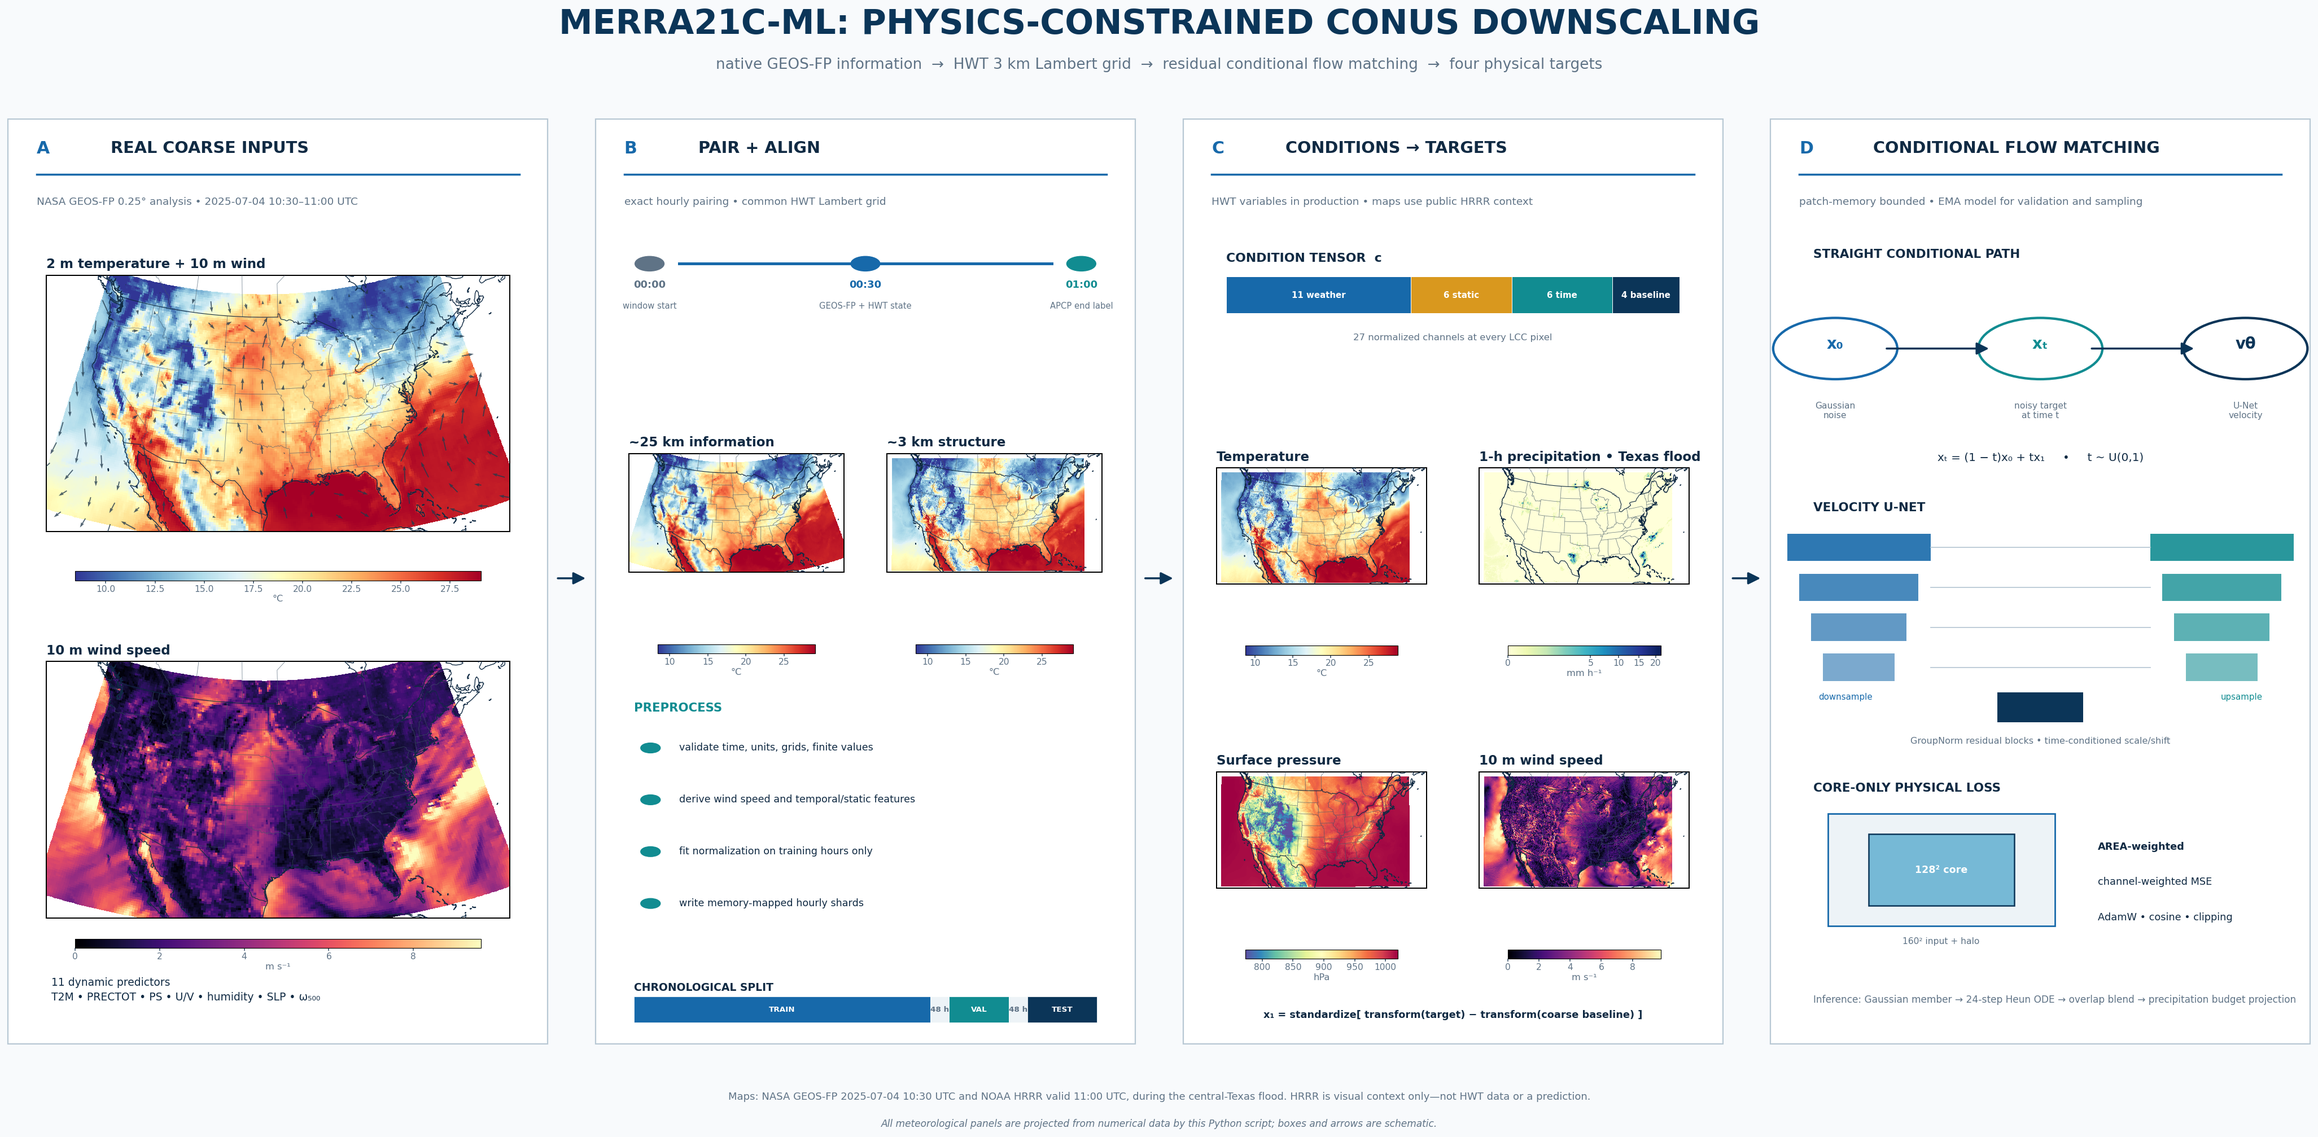
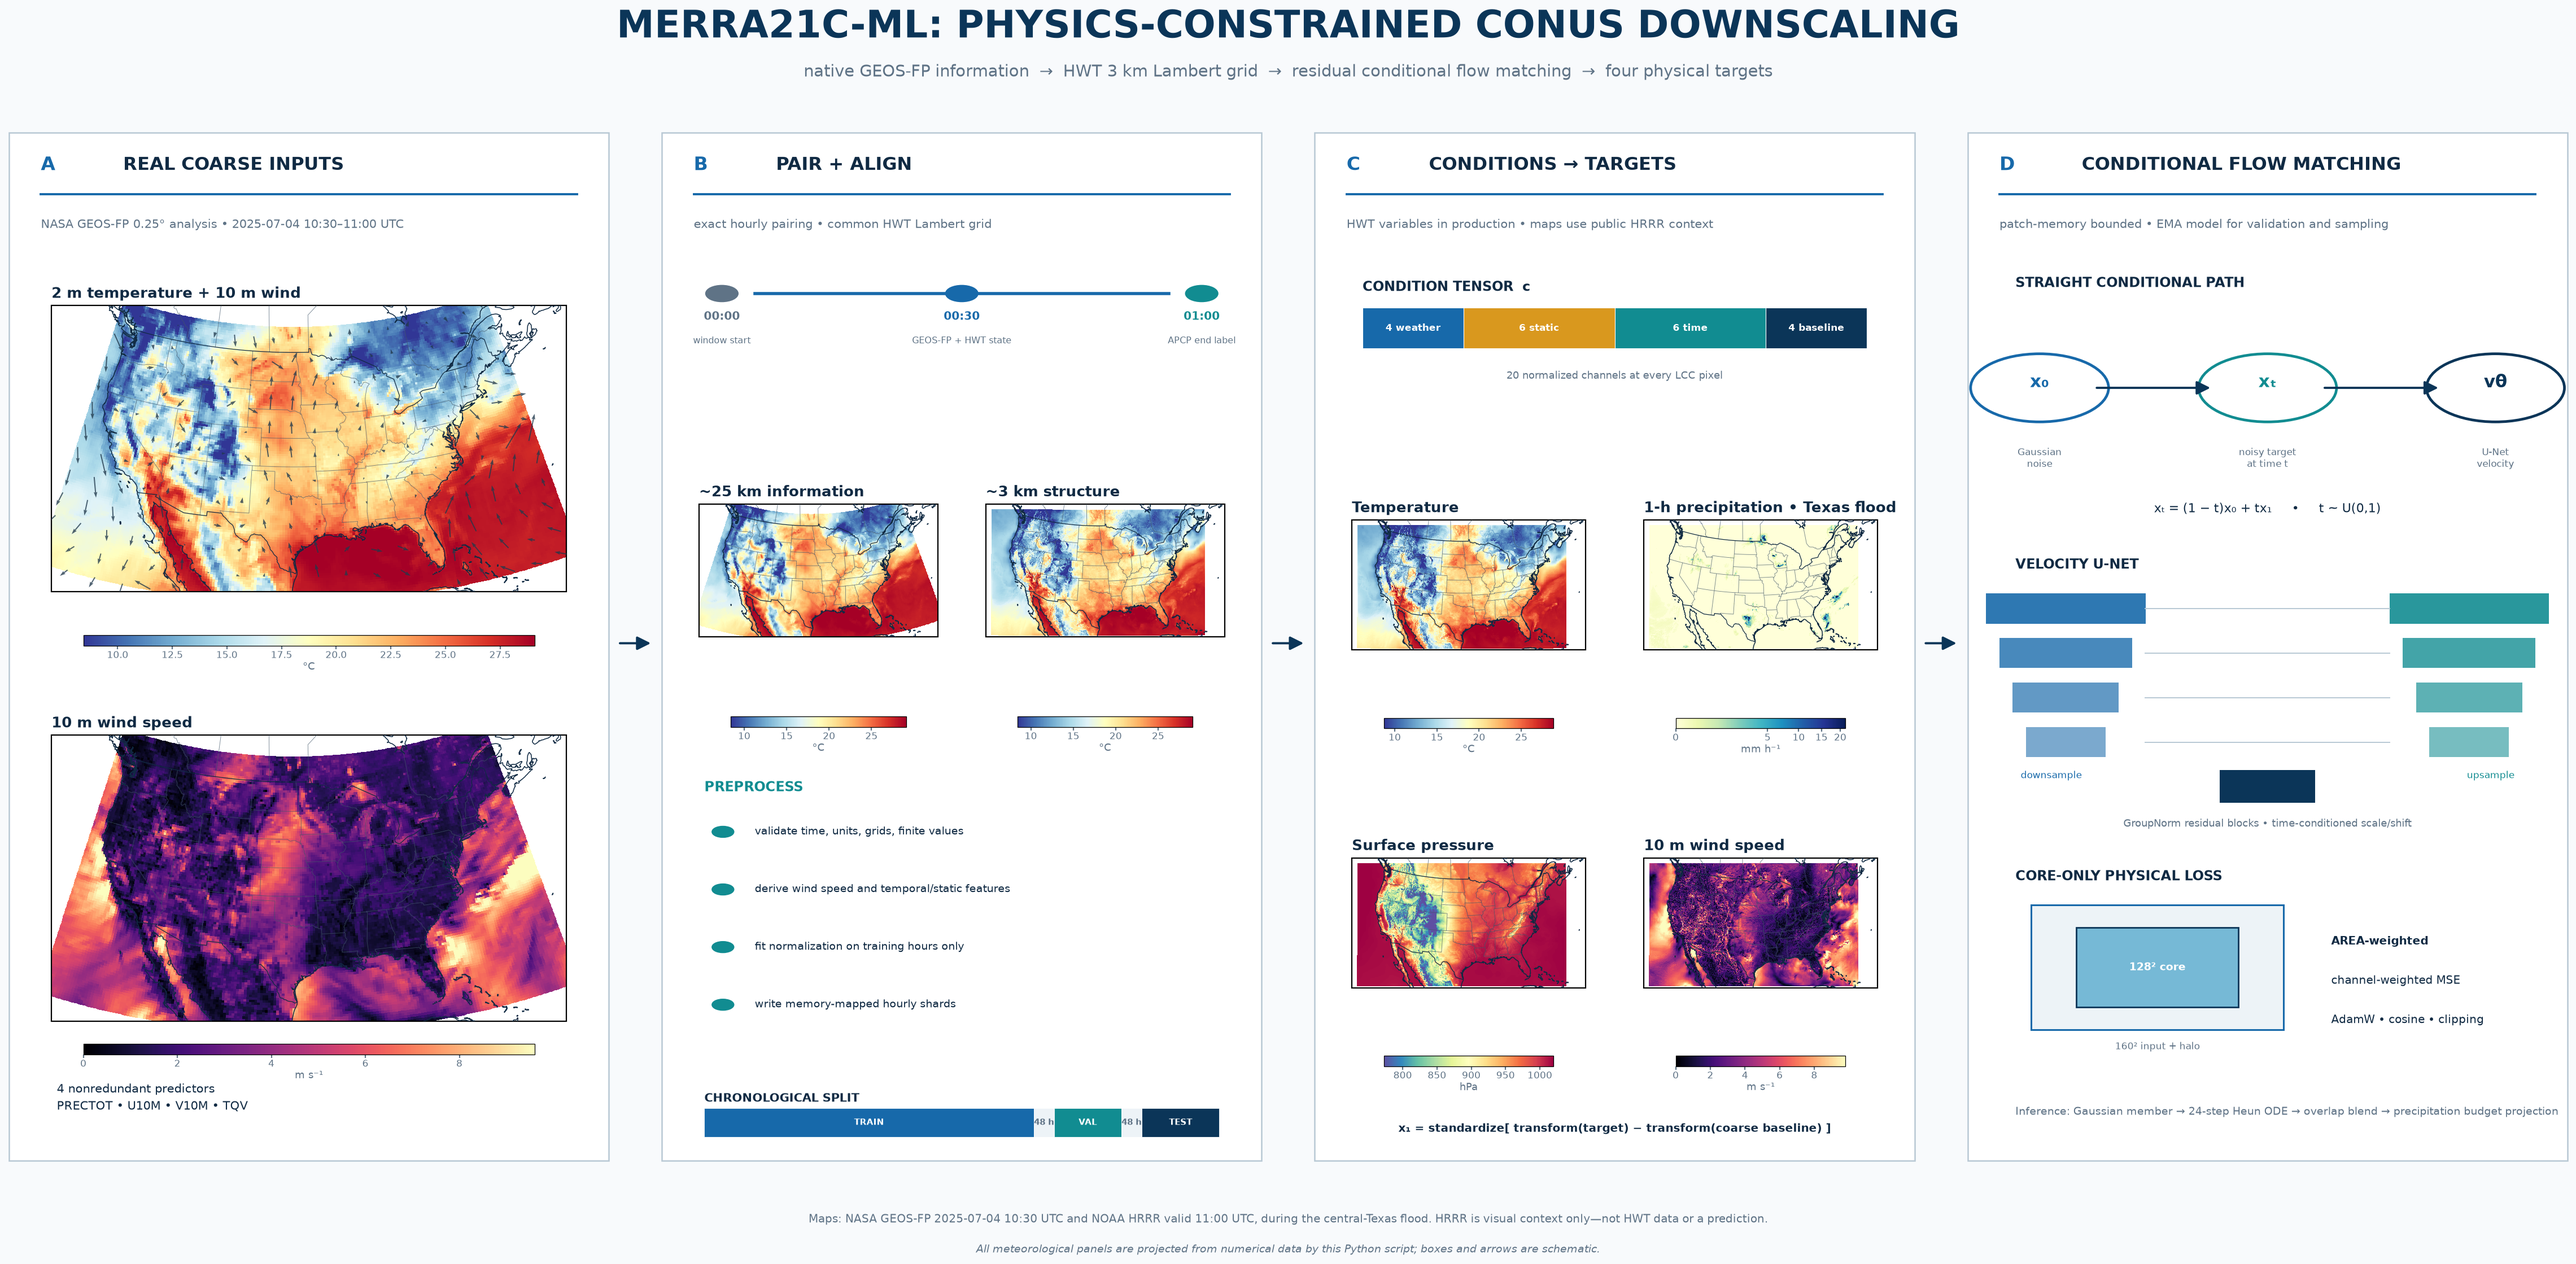
Minimize flow conditioning predictors

diff --git a/tests/test_pipeline.py b/tests/test_pipeline.py
@@ -39,11 +39,11 @@ def test_pairing_crosses_month_and_split_validation(prepared):
 def test_stats_train_only_and_patches(prepared):
     a = Archive(prepared['data']['prepared'])
     entries = [e for e in a.index['entries'] if e['split'] == 'train']
-    exact = np.concatenate([a.array(e, 'condition')[:, ::2, ::2].reshape(11, -1) for e in entries], axis=1)
+    exact = np.concatenate([a.array(e, 'condition')[:, ::2, ::2].reshape(4, -1) for e in entries], axis=1)
     np.testing.assert_allclose(a.cm.ravel(), exact.mean(1), rtol=1e-5, atol=1e-5)
     ds = PatchDataset(a.root, 'train', 16, 4, 8, seed=12)
     assert ds[0]['target'].shape == (4, 24, 24)
-    assert ds[0]['condition'].shape == (27, 24, 24)
+    assert ds[0]['condition'].shape == (20, 24, 24)
     np.testing.assert_array_equal(ds[0]['target'], ds[0]['target'])
     first = ds[0]['condition'].clone()
     ds.epoch = 1
@@ -64,15 +64,15 @@ def test_predictor_gaps_report_file_and_all_missing_variables(tmp_path):
     path = tmp_path/'incomplete.nc'
     xr.Dataset({'T2M': (('y', 'x'), np.ones((2, 2))) }).to_netcdf(path)
     gaps = predictor_gaps([{'id': '20250107_0130', 'lr': str(path)}],
-                          ['T2M', 'OMEGA500', 'PRECTOT'])
+                          ['T2M', 'PRECTOT', 'TQV'])
     assert gaps == [{'id': '20250107_0130', 'path': str(path),
-                     'missing': ['OMEGA500', 'PRECTOT']}]
+                     'missing': ['PRECTOT', 'PS', 'TQV', 'U10M', 'V10M']}]
 
 
 def test_network_backward_and_heun(prepared):
     ds = PatchDataset(prepared['data']['prepared'], 'train', 16, 4, 2)
     batch = {k: v[None] for k, v in ds[0].items()}
-    model = VelocityUNet(27, **prepared['model'])
+    model = VelocityUNet(20, **prepared['model'])
     loss = flow_loss(model, batch, 4, [1]*4)
     loss.backward()
     assert torch.isfinite(loss) and model.output[-1].weight.grad.abs().sum() > 0
@@ -142,7 +142,7 @@ def test_unlabeled_inference_uses_frozen_statistics(prepared, tmp_path):
     e = a.index['entries'][0]
     assert e['split'] == 'predict'
     assert not (a.root/e['id']/'truth.npy').exists()
-    assert a.condition(e, 0, 0, 16, 4).shape == (27, 24, 24)
+    assert a.condition(e, 0, 0, 16, 4).shape == (20, 24, 24)
 
 
 def test_accumulation_bounds_mismatch_fails(prepared, tmp_path):

diff --git a/scripts/make_workflow_figure.py b/scripts/make_workflow_figure.py
@@ -313,7 +313,7 @@ def data_stage(fig, left, width, case):
     )
     fig.text(
         left + 0.018, 0.125,
-        "11 dynamic predictors\nT2M • PRECTOT • PS • U/V • humidity • SLP • ω₅₀₀",
+        "4 nonredundant predictors\nPRECTOT • U10M • V10M • TQV",
         color=INK, fontsize=7.5, linespacing=1.45, va="bottom",
     )
 
@@ -390,17 +390,17 @@ def tensor_stage(fig, left, width, case):
              color=INK, fontweight="bold")
     cursor, y0, total = left + 0.018, 0.710, width - 0.036
     for count, color, label in [
-        (11, BLUE, "weather"), (6, GOLD, "static"),
+        (4, BLUE, "weather"), (6, GOLD, "static"),
         (6, TEAL, "time"), (4, NAVY, "baseline"),
     ]:
-        section = total * count / 27
+        section = total * count / 20
         fig.patches.append(Rectangle((cursor, y0), section, 0.031,
                                      transform=fig.transFigure, facecolor=color,
                                      edgecolor="white", linewidth=0.4))
         fig.text(cursor + section / 2, y0 + 0.0155, f"{count} {label}", color="white",
                  fontsize=6.0, ha="center", va="center", fontweight="bold")
         cursor += section
-    fig.text(left + width / 2, 0.687, "27 normalized channels at every LCC pixel",
+    fig.text(left + width / 2, 0.687, "20 normalized channels at every LCC pixel",
              ha="center", fontsize=6.6, color=MUTED)
     fields = case["target"]
     specifications = [

diff --git a/scripts/regrid_lowres.py b/scripts/regrid_lowres.py
@@ -37,12 +37,12 @@ from tqdm import tqdm
 _WORKER_REGRIDDER = None
 _WORKER_BBOX = None
 
-# Variables consumed by configs/discover.yaml and configs/a100_80gb.yaml.  A
-# legacy output containing only T2M/PRECTOT is not complete enough to train.
+# Variables consumed by configs/discover.yaml and configs/a100_80gb.yaml,
+# including the four coarse baseline fields assembled by preparation.
 MODEL_REQUIRED_SLV_VARS = {
-    "T2M", "QV2M", "U10M", "V10M", "PS", "SLP", "TQV", "OMEGA500",
+    "T2M", "U10M", "V10M", "PS", "TQV",
 }
-MODEL_REQUIRED_FLX_VARS = {"PRECTOT", "PRECCON", "PRECLSC"}
+MODEL_REQUIRED_FLX_VARS = {"PRECTOT"}
 MODEL_REQUIRED_OUTPUT_VARS = MODEL_REQUIRED_SLV_VARS | MODEL_REQUIRED_FLX_VARS
 
 

diff --git a/src/merraflow/prepare.py b/src/merraflow/prepare.py
@@ -11,6 +11,7 @@ from .config import write_json
 from .physics import native_groups, project_precip, transform_target, budget_error
 
 PRECIP_VARS = {'PRECTOT', 'PRECCON', 'PRECLSC', 'PRECANV', 'PRECSNO'}
+BASELINE_VARS = {'T2M', 'PS', 'U10M', 'V10M'}
 
 
 def field(ds, name):
@@ -97,7 +98,7 @@ def manifest(cfg):
 def predictor_gaps(entries, predictors):
     """Return unreadable/incomplete regridded files before expensive preparation."""
     gaps = []
-    required = set(predictors)
+    required = set(predictors) | BASELINE_VARS
     for entry in entries:
         try:
             with xr.open_dataset(entry['lr'], decode_times=False) as ds:

diff --git a/README.md b/README.md
@@ -80,7 +80,7 @@ Missing hours are written to `data/paired_hourly/missing.json`; the default fail
 
 Before writing shards, preparation scans every regridded file for the configured predictor schema and writes problems to `data/paired_hourly/predictor_gaps.json`. The regridder uses the same required-variable set when deciding whether an existing output may be skipped, so rerunning the regrid job repairs legacy partial files instead of treating them as complete. A source file that genuinely lacks a required predictor fails with its exact path; do not fill or drop a predictor for only part of the record.
 
-Outputs include a timestamp/split manifest, original HR truth, constrained HR targets, coarse baselines, transformed residuals, condition arrays, train-only normalization statistics, grid metadata, and a precipitation adjustment audit. Each timestamp is a set of memory-mappable `.npy` files; patches are sampled on demand without duplicating overlapping crops. At 1059×1799, the default 27 stored float32 planes use about **206 MB/hour, or 1.8 TB/year**, excluding original/regridded data. Place `data.prepared` on Discover scratch with sufficient capacity. The loader requires complete finite fields; masked ocean/land-only training is not implemented.
+Outputs include a timestamp/split manifest, original HR truth, constrained HR targets, coarse baselines, transformed residuals, condition arrays, train-only normalization statistics, grid metadata, and a precipitation adjustment audit. Each timestamp is a set of memory-mappable `.npy` files; patches are sampled on demand without duplicating overlapping crops. The minimal pipeline uses four dynamic predictors (`PRECTOT`, `U10M`, `V10M`, and `TQV`) plus six static, six temporal, and four baseline channels. At 1059×1799, the resulting 20 stored float32 planes use about **152 MB/hour, or 1.32 TB for the configured 8,664 hours**, excluding original/regridded data. Place `data.prepared` on Discover scratch with sufficient capacity. The loader requires complete finite fields; masked ocean/land-only training is not implemented.
 
 Preparation can rebuild incomplete shards after interruption if no completed `index.json` exists. Once preparation completes, use a new output directory when inputs/configuration change. It never silently reuses statistics from a different run.
 

diff --git a/docs/validation.md b/docs/validation.md
@@ -4,7 +4,7 @@ Local execution on 2026-09-09, macOS ARM64 CPU, Python 3.12.14, PyTorch 2.14.0. 
 
 ## Checks performed
 
-- Numerical/integration tests: **14 passed**. Coverage includes area-weighted precipitation budgets (wet, dry, zero-proposal fallback, nonuniform areas), transform round trips, native-cell indexing, CRPS against its pairwise definition, perfect/undefined weather scores, randomized dry ties, month-boundary pairing, disjoint splits, missing hours, train-only normalization, deterministic patches, network backward propagation, Heun integration, irregular-domain overlap coverage, exact epoch-boundary resume, label-free preparation, unit/time validation, ensemble NetCDF output and evaluation.
+- Numerical/integration tests: **16 passed**. Coverage includes area-weighted precipitation budgets (wet, dry, zero-proposal fallback, nonuniform areas), transform round trips, native-cell indexing, CRPS against its pairwise definition, perfect/undefined weather scores, randomized dry ties, month-boundary pairing, disjoint splits, missing files and predictor-schema gaps, train-only normalization, deterministic patches, network backward propagation, Heun integration, irregular-domain overlap coverage, exact epoch-boundary resume, label-free preparation, unit/time validation, ensemble NetCDF output and evaluation.
 - Full synthetic CLI run: six paired hours across an August/September boundary; 36×44 grid; 16×16 cores with 4-pixel halo; two training epochs; three members with two Heun steps; evaluation and diagnostic PNGs generated successfully.
 - Maximum relative wet-footprint precipitation budget error across the three smoke members: **1.65×10⁻⁸**. Dry-group leakage was zero. This verifies the discrete footprint constraint, not polygon-overlap conservation.
 - Editable package installation and console entry point, Python compilation, shell syntax and whitespace checks passed.

diff --git a/docs/method.md b/docs/method.md
@@ -11,7 +11,7 @@ The source information is GEOS-FP on a 0.25°×0.3125° grid. The existing bilin
 | ps | slv `PS` | 30mn slv `PRES_SFC` | Pa |
 | wind10m | slv `hypot(U10M,V10M)` | 30mn slv `hypot(UGRD_10M,VGRD_10M)` | m/s |
 
-Wind speed is scalar; this model does not generate wind direction or conserve momentum. Extra LR conditions are `QV2M`, `SLP`, `TQV`, `OMEGA500`, `PRECCON`, and `PRECLSC`. The spelling is `QV2M`, not the `Q2M` shorthand in the old plan. Static/temporal conditions are elevation, sine/cosine latitude and longitude, log area, annual phase accounting for leap years, UTC daily phase, and longitude-adjusted local solar phase. Four coarse baseline channels explicitly condition the residual model. No HR dynamic predictors leak into conditioning.
+Wind speed is scalar; this model does not generate wind direction or conserve momentum. The minimal dynamic predictor set is `PRECTOT`, `U10M`, `V10M`, and `TQV`. The four coarse baseline channels already supply `T2M`, native precipitation, `PS`, and wind speed; repeating temperature and pressure as dynamic channels adds no new field. U/V retain wind direction, while total-column water supplies moisture information not present in the baseline. `QV2M`, `SLP`, `OMEGA500`, `PRECCON`, and `PRECLSC` are excluded to reduce redundancy, missing-variable sensitivity, storage, and model width. This is a physically motivated minimal set, not a claim of measured feature importance; add predictors only through train/validation ablations. Static/temporal conditions are elevation, sine/cosine latitude and longitude, log area, annual phase accounting for leap years, UTC daily phase, and longitude-adjusted local solar phase. No HR dynamic predictors leak into conditioning.
 
 ## Flow formulation
 
